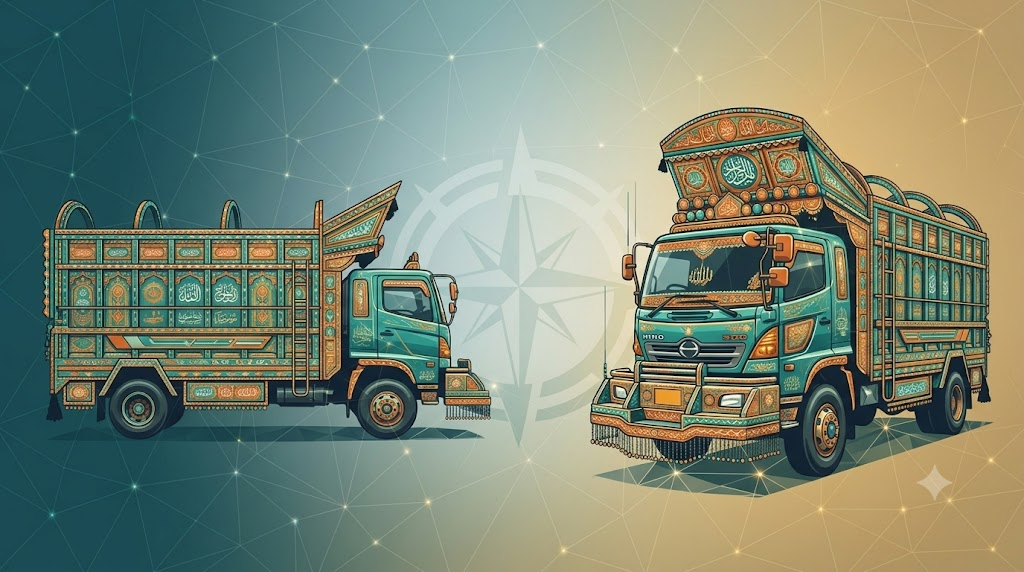
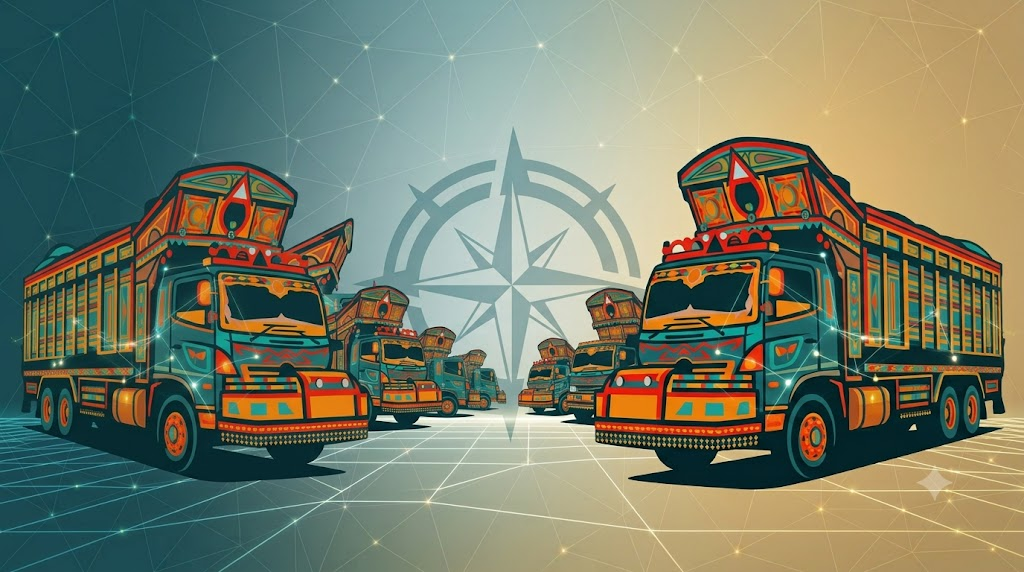
Add quick-add-location to Destination combobox in transaction form
Mirrors the existing Truck/Driver/Client/Broker/City "no match found
-> + Add new" pattern: typing a Destination with no match now offers
to add a new Location (Name, City, Address), pre-filling City from
the transaction's selected To city, and selecting it immediately on
save.

diff --git a/src/app/dashboard/transactions/quick-add-location.tsx b/src/app/dashboard/transactions/quick-add-location.tsx
@@ -1,0 +1,120 @@
+"use client";
+
+import { useState, type FormEvent } from "react";
+import { createClient } from "@/lib/supabase/client";
+import { inputClass, primaryButtonClass, secondaryButtonClass } from "../_components/ui";
+import { friendlyPostgresError } from "../_components/errors";
+import { CheckIcon, XMarkIcon } from "../_components/icons";
+import type { SimpleOption } from "./get-form-reference-data";
+
+const LOCATION_COLUMNS = "id, name, city_id";
+
+export function QuickAddLocation({
+  initialValue,
+  cityOptions,
+  initialCityId,
+  onCreated,
+  onCancel,
+}: {
+  initialValue: string;
+  cityOptions: SimpleOption[];
+  initialCityId?: string;
+  onCreated: (row: { id: string; name: string; city_id: string }) => void;
+  onCancel: () => void;
+}) {
+  const [name, setName] = useState(initialValue);
+  const [cityId, setCityId] = useState(initialCityId ?? "");
+  const [address, setAddress] = useState("");
+  const [error, setError] = useState<string | null>(null);
+  const [loading, setLoading] = useState(false);
+
+  async function handleSubmit(event: FormEvent<HTMLFormElement>) {
+    event.preventDefault();
+    setError(null);
+
+    const trimmed = name.trim();
+    if (!trimmed) {
+      setError("Name is required.");
+      return;
+    }
+    if (!cityId) {
+      setError("City is required.");
+      return;
+    }
+
+    setLoading(true);
+    const supabase = createClient();
+    const { data, error: insertError } = await supabase
+      .from("locations")
+      .insert({ name: trimmed, city_id: cityId, address: address.trim() || null })
+      .select(LOCATION_COLUMNS)
+      .single();
+    setLoading(false);
+
+    if (insertError) {
+      setError(friendlyPostgresError(insertError));
+      return;
+    }
+
+    onCreated(data as { id: string; name: string; city_id: string });
+  }
+
+  return (
+    <form onSubmit={handleSubmit} className="flex flex-col gap-4">
+      <div className="flex flex-col gap-1.5">
+        <label className="text-sm font-medium text-zinc-700 dark:text-zinc-300">
+          Name
+        </label>
+        <input
+          required
+          autoFocus
+          value={name}
+          onChange={(e) => setName(e.target.value)}
+          className={inputClass}
+        />
+      </div>
+
+      <div className="flex flex-col gap-1.5">
+        <label className="text-sm font-medium text-zinc-700 dark:text-zinc-300">
+          City
+        </label>
+        <select
+          required
+          value={cityId}
+          onChange={(e) => setCityId(e.target.value)}
+          className={inputClass}
+        >
+          <option value="">Select city...</option>
+          {cityOptions.map((c) => (
+            <option key={c.id} value={c.id}>
+              {c.label}
+            </option>
+          ))}
+        </select>
+      </div>
+
+      <div className="flex flex-col gap-1.5">
+        <label className="text-sm font-medium text-zinc-700 dark:text-zinc-300">
+          Address
+        </label>
+        <input value={address} onChange={(e) => setAddress(e.target.value)} className={inputClass} />
+      </div>
+
+      <div className="flex items-center gap-3">
+        <button type="submit" disabled={loading} className={primaryButtonClass}>
+          <CheckIcon />
+          {loading ? "Saving..." : "Save"}
+        </button>
+        <button type="button" onClick={onCancel} className={secondaryButtonClass}>
+          <XMarkIcon />
+          Cancel
+        </button>
+      </div>
+      {error && (
+        <p className="rounded-md bg-red-50 px-3 py-2 text-sm text-red-700 dark:bg-red-950 dark:text-red-300">
+          {error}
+        </p>
+      )}
+    </form>
+  );
+}

diff --git a/src/app/dashboard/transactions/transaction-form.tsx b/src/app/dashboard/transactions/transaction-form.tsx
@@ -16,7 +16,9 @@ import { QuickAddDriver } from "./quick-add-driver";
 import { QuickAddClient } from "./quick-add-client";
 import { QuickAddBroker } from "./quick-add-broker";
 import { QuickAddCity } from "./quick-add-city";
+import { QuickAddLocation } from "./quick-add-location";
 import type {
+  LocationOption,
   SimpleOption,
   TransactionFormReferenceData,
 } from "./get-form-reference-data";
@@ -193,8 +195,9 @@ export function TransactionForm({
   const [extraClients, setExtraClients] = useState<SimpleOption[]>([]);
   const [extraBrokers, setExtraBrokers] = useState<SimpleOption[]>([]);
   const [extraCities, setExtraCities] = useState<SimpleOption[]>([]);
+  const [extraLocations, setExtraLocations] = useState<LocationOption[]>([]);
   const [quickAdd, setQuickAdd] = useState<
-    | { kind: "truck" | "driver" | "client" | "broker"; query: string }
+    | { kind: "truck" | "driver" | "client" | "broker" | "location"; query: string }
     | { kind: "city"; query: string; target: "from" | "to" }
     | null
   >(null);
@@ -274,6 +277,16 @@ export function TransactionForm({
     closeQuickAdd();
   }
 
+  function handleLocationCreated(row: { id: string; name: string; city_id: string }) {
+    const cityLabel = cityOptions.find((c) => c.id === row.city_id)?.label ?? "—";
+    setExtraLocations((prev) => [
+      ...prev,
+      { id: row.id, label: row.name, cityLabel },
+    ]);
+    set("to_location_id", row.id);
+    closeQuickAdd();
+  }
+
   function handleCityCreated(row: { id: string; name: string }) {
     const target = quickAdd?.kind === "city" ? quickAdd.target : null;
     setExtraCities((prev) => [...prev, { id: row.id, label: row.name }]);
@@ -289,8 +302,8 @@ export function TransactionForm({
 
   const cityOptions = [...referenceData.cities, ...extraCities];
   const careOfLocationOptions = withCurrentOption(
-    referenceData.activeLocations,
-    referenceData.allLocations,
+    [...referenceData.activeLocations, ...extraLocations],
+    [...referenceData.allLocations, ...extraLocations],
     form.to_location_id,
   );
   const truckOptions = withCurrentOption(
@@ -424,7 +437,9 @@ export function TransactionForm({
             ? "New Broker"
             : quickAdd?.kind === "city"
               ? "New City"
-              : "";
+              : quickAdd?.kind === "location"
+                ? "New Location"
+                : "";
 
   return (
     <>
@@ -600,6 +615,12 @@ export function TransactionForm({
               value={form.to_location_id}
               onChange={(id) => set("to_location_id", id)}
               placeholder="Search location..."
+              onAddNew={
+                isDetails
+                  ? undefined
+                  : (query) => setQuickAdd({ kind: "location", query })
+              }
+              addNewLabel="location"
             />
           </div>
 
@@ -850,6 +871,15 @@ export function TransactionForm({
           <QuickAddCity
             initialValue={quickAdd.query}
             onCreated={handleCityCreated}
+            onCancel={closeQuickAdd}
+          />
+        )}
+        {quickAdd?.kind === "location" && (
+          <QuickAddLocation
+            initialValue={quickAdd.query}
+            cityOptions={cityOptions}
+            initialCityId={form.to_city_id}
+            onCreated={handleLocationCreated}
             onCancel={closeQuickAdd}
           />
         )}
